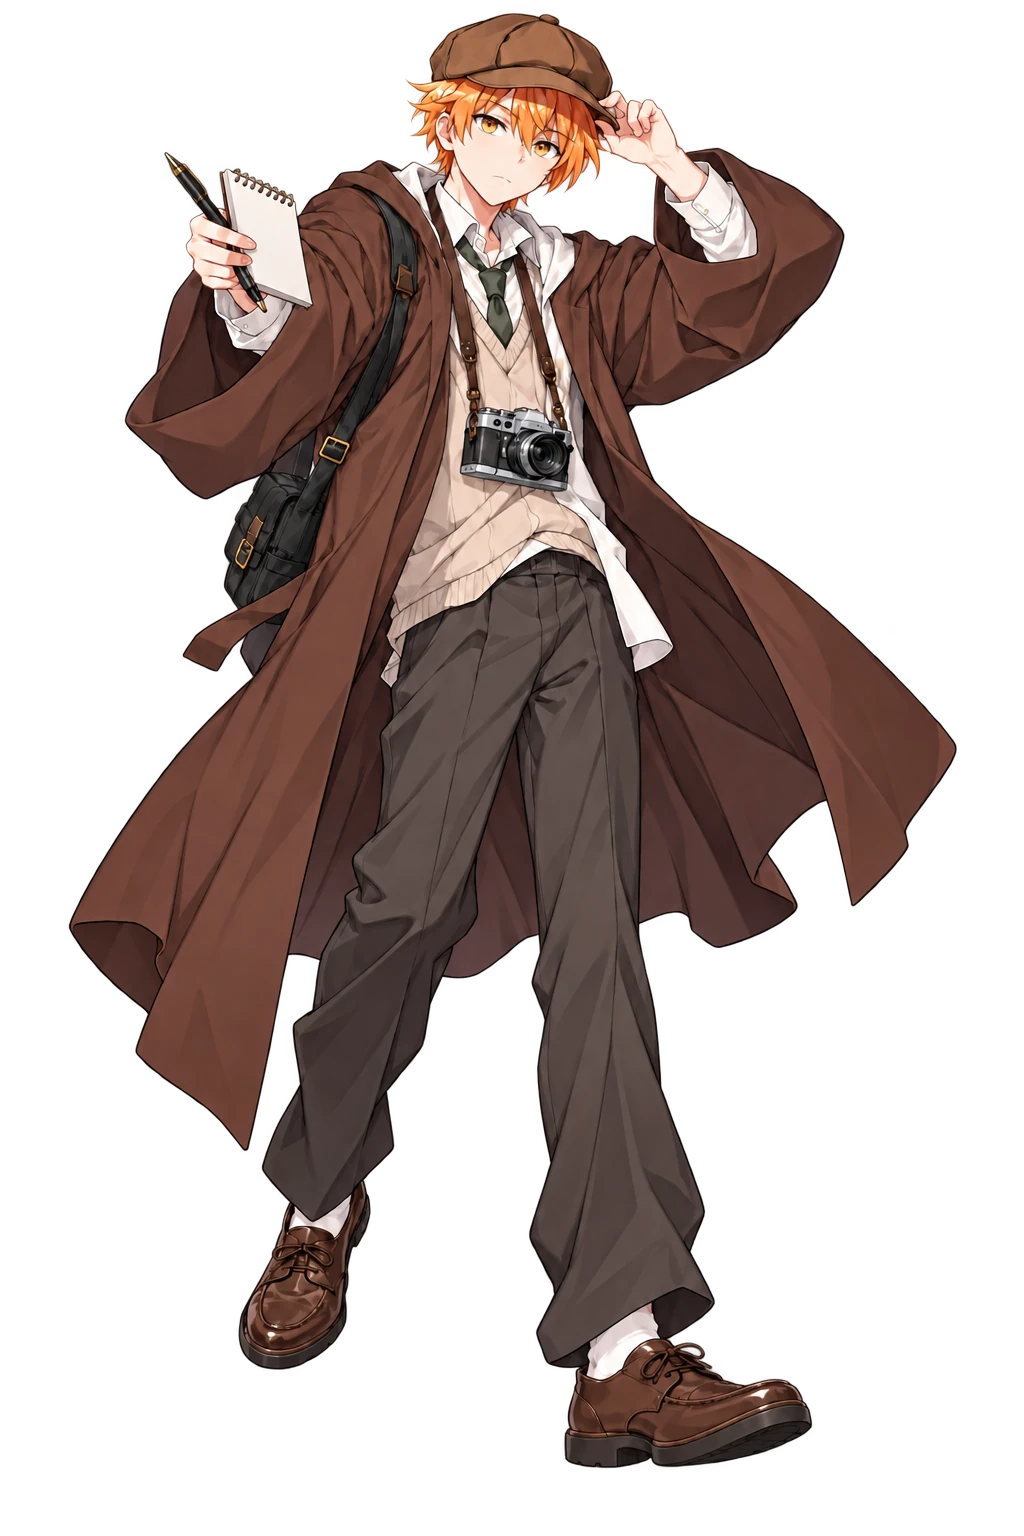
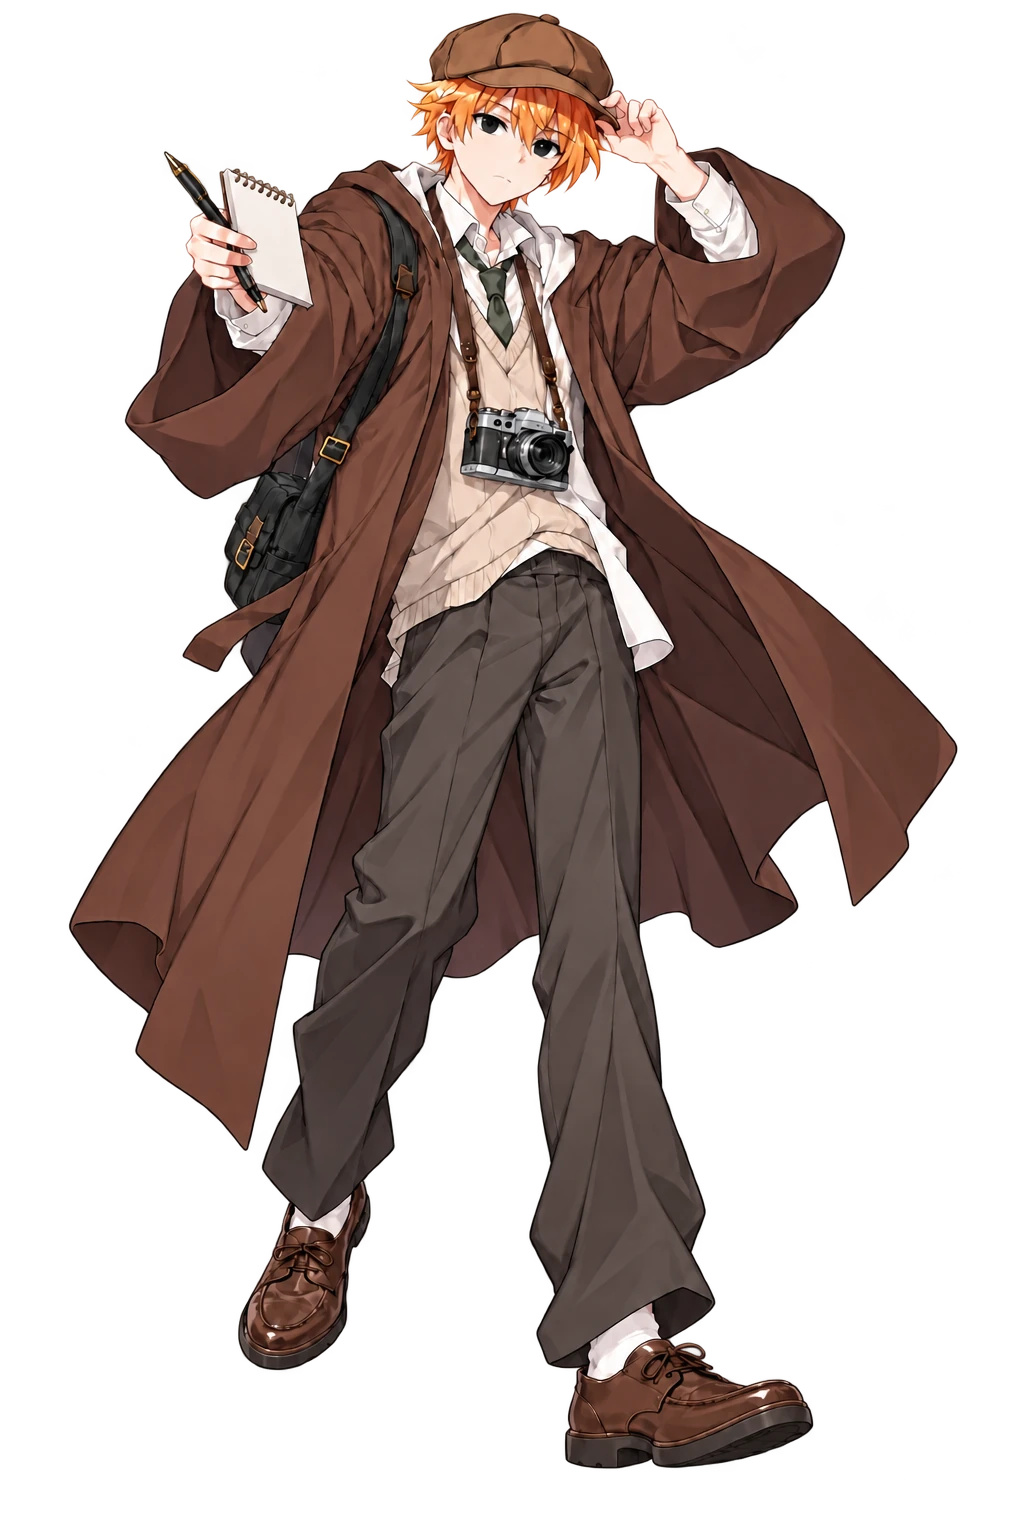
Correct Yuhi open-eye sprites to canonical black irises

diff --git a/index.html b/index.html
@@ -5,4 +5,4 @@
 <section id="chapters" class="screen archive"><header class="archive-header"><button data-home class="back">← タイトル</button><span>STORY ARCHIVE</span><div class="archive-tools"><button class="pill" data-fullscreen hidden aria-label="全画面切り替え" aria-pressed="false">全画面</button><button class="settings-open icon-button" aria-label="設定">⚙</button></div></header><div class="archive-body"><p class="eyebrow">CHOOSE YOUR STORY</p><h2>ストーリー選択</h2><p class="section-caption">この島で、物語が始まる。</p><div class="chapter-grid"><button class="chapter-card available" id="chapter-one"><img src="assets/cg/prologue-a.webp" alt="海から望む学園"><div><p>MAIN STORY — CHAPTER 01</p><h3>第1章</h3><span id="chapter-summary">プロローグ・第1話から順次収録</span><b>→</b></div></button><div class="chapter-card unavailable"><div class="coming-art">II</div><div><p>MAIN STORY — CHAPTER 02</p><h3>第2章</h3><span>準備中</span></div></div><button class="chapter-card available" id="extra-stories"><div class="coming-art extra-art">＋</div><div><p>EXTRA STORIES</p><h3>おまけ</h3><span>おまけ1〜5を収録</span></div></button></div></div><footer>マジカルカース帝国国立高等学校</footer></section>
 <section id="episodes" class="screen archive"><header class="archive-header"><button id="back-chapters" class="back">← ストーリー選択</button><span>CHAPTER 01</span><div class="archive-tools"><button class="pill" data-fullscreen hidden aria-label="全画面切り替え" aria-pressed="false">全画面</button><button class="settings-open icon-button" aria-label="設定">⚙</button></div></header><div class="archive-body"><p class="eyebrow">MAIN STORY / CHAPTER 01</p><h2>第1章</h2><p class="section-caption">読みたいエピソードを選択してください。</p><div id="episode-list" class="episode-list"></div><p class="more-coming">続くエピソードは、順次追加予定です。</p></div></section>
 <section id="game" class="screen game"><div id="stage" class="stage"><div id="backdrop" class="backdrop"></div><div id="scene-shade"></div><div id="cg-frame" class="cg-frame" hidden><img id="cg-image" alt=""></div><div id="sprites" class="sprites"></div><div id="flash" class="flash"></div><div id="scene-transition" class="scene-transition" hidden aria-hidden="true"></div><div id="cutin" class="cutin" hidden><div class="cutin-line"></div><p>LOCATION</p><h2 id="cutin-place"></h2><span>タップ / クリックで進む</span><div class="cutin-line"></div></div><div id="ending" class="ending" hidden><p id="ending-label" class="eyebrow"></p><h2 id="ending-title"></h2><p id="ending-caption"></p><button id="next-episode" class="gold" hidden>次の話へ →</button><button id="end-episodes" class="gold">各話選択へ →</button><button id="replay" class="glass">もう一度読む</button></div><div id="tap-surface" title="クリックで進む・長押しで未読もスキップ" class="tap-surface" role="button" tabindex="0" aria-label="次の文章へ"></div><div class="game-top"><button id="game-back" class="pill">‹ 各話選択</button><span id="location-label"></span><div><button id="fullscreen" class="pill" data-fullscreen hidden aria-pressed="false" aria-label="全画面切り替え">全画面</button><button class="settings-open pill" aria-label="設定">設定</button></div></div><div id="dialogue" class="dialogue"><div class="dialogue-head"><span id="speaker"></span><span id="progress"></span></div><p id="dialogue-text" aria-live="polite"></p><span class="next-mark">◆</span></div><nav class="game-controls" aria-label="再生操作"><button id="previous">‹ 戻る</button><button id="log-open">会話ログ</button><button id="auto" aria-pressed="false">AUTO</button><button id="skip" aria-pressed="false">既読スキップ</button><button id="hide-ui">UI非表示</button><span id="save-state">自動保存</span></nav><button id="restore-ui" class="pill restore-ui" hidden>会話欄を表示</button></div></section>
-</main><div id="episode-loading" class="loading-toast" role="status" hidden>物語を読み込み中…</div><div id="load-error" class="error-toast" role="status" hidden><span id="error-message"></span><button type="button" id="dismiss-error" aria-label="案内を閉じる">×</button></div><dialog id="settings-dialog"><form method="dialog"><header><h2>設定</h2><button aria-label="設定を閉じる">×</button></header><label>文字速度 <span id="speed-label"></span><input id="speed" type="range" min="0" max="60" step="5"></label><label>文字サイズ <select id="font-size"><option value="small">小</option><option value="medium">標準</option><option value="large">大</option></select></label><label>オートの待ち時間 <span id="wait-label"></span><input id="auto-wait" type="range" min="1" max="6" step="0.5"></label><label class="se-toggle"><span>SEを再生</span><input id="se-enabled" type="checkbox"></label><label>SE音量 <span id="se-volume-label"></span><input id="se-volume" type="range" min="0" max="100" step="5"></label><label>試聴する音 <select id="se-sample"><option value="hit">打撃</option><option value="heavy">重い衝撃</option><option value="whoosh">空振り</option><option value="teleport" selected>瞬間移動</option><option value="whip">鞭</option><option value="rustle">紙・手帳</option><option value="chime">試合終了</option><option value="camera">シャッター</option><option value="door-open">扉を開く</option><option value="door-close">扉を閉じる</option><option value="knock">ノック</option><option value="steps">足音</option><option value="run">走る足音</option><option value="chair">椅子を動かす</option><option value="tableware">食器・グラス</option><option value="water">水・しぶき</option><option value="metal">金属</option><option value="bell">学校の鐘</option><option value="crowd">拍手</option><option value="cloth">布・衣擦れ</option><option value="ui">メニュー操作</option></select></label><button type="button" id="se-test" class="glass">SEを試聴</button><p id="se-test-status" class="setting-note" role="status"></p><h3>BGM</h3><label class="se-toggle"><span>BGMを再生</span><input id="bgm-enabled" type="checkbox"></label><label>BGM音量 <span id="bgm-volume-label"></span><input id="bgm-volume" type="range" min="0" max="100" step="5"></label><label>試聴するBGM <select id="bgm-sample"><option value="daily">日常 — いつもの学園</option><option value="calm">調査・授業 — 頁をひらいて</option><option value="training">練習 — 一歩ずつ、その先へ</option><option value="battle">戦闘 — 届くまで</option><option value="tension">不穏 — 扉の向こう</option><option value="reflection">余韻 — 残った言葉</option></select></label><button type="button" id="bgm-test" class="glass">BGMを試聴</button> <button type="button" id="bgm-stop-preview" class="glass" disabled>試聴を終了</button><p id="bgm-test-status" class="setting-note" role="status"></p><p class="setting-note">進行状況と設定は、このブラウザに保存されます。<br>戦闘・足音・扉・紙・食器などの動作にSEが流れます。BGMは場面に合わせて切り替わります。ボイスは未収録です。</p><button class="gold close-settings">閉じる</button></form></dialog><dialog id="log-dialog"><header><h2>会話ログ</h2><button id="log-close" aria-label="ログを閉じる">×</button></header><div id="log-content"></div></dialog><dialog id="resume-dialog"><h2>途中から再開しますか？</h2><p id="resume-info"></p><div class="resume-actions"><button id="resume-yes" class="gold">続きから</button><button id="resume-no" class="glass">最初から</button><button id="resume-cancel" class="text-button">キャンセル</button></div></dialog><div class="portrait-hint">横向きにすると、より大きな画面で遊べます。</div><script src="sound.js?v=chapter1-10" defer></script><script src="music.js?v=chapter1-10" defer></script><script src="app.js?v=hold-skip-v1" defer></script></body></html>
+</main><div id="episode-loading" class="loading-toast" role="status" hidden>物語を読み込み中…</div><div id="load-error" class="error-toast" role="status" hidden><span id="error-message"></span><button type="button" id="dismiss-error" aria-label="案内を閉じる">×</button></div><dialog id="settings-dialog"><form method="dialog"><header><h2>設定</h2><button aria-label="設定を閉じる">×</button></header><label>文字速度 <span id="speed-label"></span><input id="speed" type="range" min="0" max="60" step="5"></label><label>文字サイズ <select id="font-size"><option value="small">小</option><option value="medium">標準</option><option value="large">大</option></select></label><label>オートの待ち時間 <span id="wait-label"></span><input id="auto-wait" type="range" min="1" max="6" step="0.5"></label><label class="se-toggle"><span>SEを再生</span><input id="se-enabled" type="checkbox"></label><label>SE音量 <span id="se-volume-label"></span><input id="se-volume" type="range" min="0" max="100" step="5"></label><label>試聴する音 <select id="se-sample"><option value="hit">打撃</option><option value="heavy">重い衝撃</option><option value="whoosh">空振り</option><option value="teleport" selected>瞬間移動</option><option value="whip">鞭</option><option value="rustle">紙・手帳</option><option value="chime">試合終了</option><option value="camera">シャッター</option><option value="door-open">扉を開く</option><option value="door-close">扉を閉じる</option><option value="knock">ノック</option><option value="steps">足音</option><option value="run">走る足音</option><option value="chair">椅子を動かす</option><option value="tableware">食器・グラス</option><option value="water">水・しぶき</option><option value="metal">金属</option><option value="bell">学校の鐘</option><option value="crowd">拍手</option><option value="cloth">布・衣擦れ</option><option value="ui">メニュー操作</option></select></label><button type="button" id="se-test" class="glass">SEを試聴</button><p id="se-test-status" class="setting-note" role="status"></p><h3>BGM</h3><label class="se-toggle"><span>BGMを再生</span><input id="bgm-enabled" type="checkbox"></label><label>BGM音量 <span id="bgm-volume-label"></span><input id="bgm-volume" type="range" min="0" max="100" step="5"></label><label>試聴するBGM <select id="bgm-sample"><option value="daily">日常 — いつもの学園</option><option value="calm">調査・授業 — 頁をひらいて</option><option value="training">練習 — 一歩ずつ、その先へ</option><option value="battle">戦闘 — 届くまで</option><option value="tension">不穏 — 扉の向こう</option><option value="reflection">余韻 — 残った言葉</option></select></label><button type="button" id="bgm-test" class="glass">BGMを試聴</button> <button type="button" id="bgm-stop-preview" class="glass" disabled>試聴を終了</button><p id="bgm-test-status" class="setting-note" role="status"></p><p class="setting-note">進行状況と設定は、このブラウザに保存されます。<br>戦闘・足音・扉・紙・食器などの動作にSEが流れます。BGMは場面に合わせて切り替わります。ボイスは未収録です。</p><button class="gold close-settings">閉じる</button></form></dialog><dialog id="log-dialog"><header><h2>会話ログ</h2><button id="log-close" aria-label="ログを閉じる">×</button></header><div id="log-content"></div></dialog><dialog id="resume-dialog"><h2>途中から再開しますか？</h2><p id="resume-info"></p><div class="resume-actions"><button id="resume-yes" class="gold">続きから</button><button id="resume-no" class="glass">最初から</button><button id="resume-cancel" class="text-button">キャンセル</button></div></dialog><div class="portrait-hint">横向きにすると、より大きな画面で遊べます。</div><script src="sound.js?v=chapter1-10" defer></script><script src="music.js?v=chapter1-10" defer></script><script src="app.js?v=yuhi-black-eyes-v1" defer></script></body></html>

diff --git a/app.js b/app.js
@@ -28,15 +28,16 @@ function renderEpisodeCards(){document.querySelector('#episodes h2').textContent
 function clearTyping(){clearInterval(typing);typing=null;isTyping=false;}
 function cancelHold(){clearTimeout(holdTimer);holdTimer=null;holdPointer=null;holdSkipping=false;}
 function stopModes(){cancelHold();auto=false;skipping=false;clearTimeout(autoTimer);clearInterval(skipTimer);$('#auto').setAttribute('aria-pressed','false');$('#skip').setAttribute('aria-pressed','false');}
+function characterImage(c){return `assets/characters/${c.id}-${c.expression}.webp`+(c.id==='yuhi'&&['serious','worried'].includes(c.expression)?'?v=black-eyes-v1':'');}
 function preload(src){if(!src)return;if(cache.has(src)){const img=cache.get(src);cache.delete(src);cache.set(src,img);return;}const img=new Image();img.src=src;cache.set(src,img);while(cache.size>18)cache.delete(cache.keys().next().value);}
-function preloadNear(){for(let j=index;j<Math.min(index+12,story.entries.length);j++){const e=story.entries[j];preload(e.bg);preload(e.cg);for(const c of e.cast||[])preload(`assets/characters/${c.id}-${c.expression}.webp`);}}
+function preloadNear(){for(let j=index;j<Math.min(index+12,story.entries.length);j++){const e=story.entries[j];preload(e.bg);preload(e.cg);for(const c of e.cast||[])preload(characterImage(c));}}
 function setScene(e){
  window.storyBgm?.set(e.bgm||null,config);
  const bg=$('#backdrop');bg.style.backgroundImage=e.bg?`url("${e.bg}")`:'none';bg.className='backdrop '+(e.tone||'');
  const illustration=e.cg||((e.bgContainsCharacters||/\/cg\//.test(e.bg||''))?e.bg:null);
  const cg=$('#cg-frame');cg.dataset.tone=e.tone||'';cg.hidden=!illustration;if(illustration){$('#cg-image').src=illustration;$('#cg-image').alt=e.cgAlt||'物語の挿絵';cg.style.setProperty('--cg',`url("${illustration}")`);}
  const sprites=$('#sprites');sprites.replaceChildren();const cast=illustration?[]:(e.cast||[]);sprites.className='sprites count-'+cast.length;
- for(let i=0;i<cast.length;i++){const c=cast[i],portrait=document.createElement('div'),im=document.createElement('img');portrait.className=`sprite-portrait slot-${i}`+(c.id===e.character?' speaking':'');portrait.style.top=(11+40*(1-(c.height||175)/184))+'%';im.className='sprite';im.alt=c.name;im.src=`assets/characters/${c.id}-${c.expression}.webp`;im.style.height=(169.1*(c.height||175)/184)+'cqh';im.draggable=false;im.addEventListener('error',()=>{if(!im.isConnected)return;im.hidden=true;error('一部の画像を読み込めませんでした。文章はそのまま読めます。');},{once:true});portrait.append(im);sprites.append(portrait);}
+ for(let i=0;i<cast.length;i++){const c=cast[i],portrait=document.createElement('div'),im=document.createElement('img');portrait.className=`sprite-portrait slot-${i}`+(c.id===e.character?' speaking':'');portrait.style.top=(11+40*(1-(c.height||175)/184))+'%';im.className='sprite';im.alt=c.name;im.src=characterImage(c);im.style.height=(169.1*(c.height||175)/184)+'cqh';im.draggable=false;im.addEventListener('error',()=>{if(!im.isConnected)return;im.hidden=true;error('一部の画像を読み込めませんでした。文章はそのまま読めます。');},{once:true});portrait.append(im);sprites.append(portrait);}
  $('#location-label').textContent=e.location||'';
  if(e.effect&&!matchMedia('(prefers-reduced-motion: reduce)').matches){$('#flash').classList.remove('hit');$('#flash').classList.remove('blink');$('#stage').classList.remove('shake');void $('#flash').offsetWidth;if(e.effect==='teleport')$('#flash').classList.add('blink');else{$('#flash').classList.add('hit');$('#stage').classList.add('shake');}}
 }

diff --git a/PROGRESS.md b/PROGRESS.md
@@ -49,3 +49,5 @@
 - 眼鏡購入前のドーマ3種、故郷の制服姿のX・ルサイ5種、入学当初のX、ルサイが一人で悲しみを見せる表情を追加。眼鏡の着脱、Xの登場、透明化、握手・救出CGの開始を本文の位置へ合わせた。
 - 本文・音・セーブ位置・第20話右拳同士の決着CGを維持。負傷・包帯の差分を優先。別更新の日本語エリア名も統合。
 - 全27話の完走・再開・前後移動、画像237点の実デコード、33枚の使用と処理の冪等性、眼鏡・透明化の境界を検証。本編22地点とおまけ36地点を640×360画面で確認。
+
+- ユーヒの設定訂正：開眼2種（真剣・不安）の虹彩を黒に修正。閉眼笑顔は維持。画像編集で表情・ポーズ・透明背景を保持し、画像URLを更新してキャッシュにも対応。
